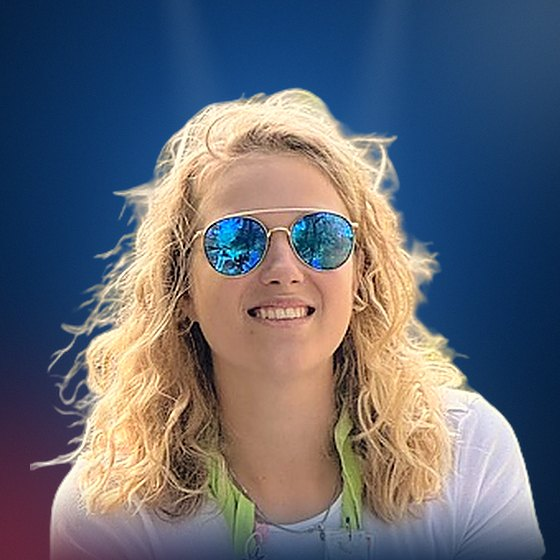
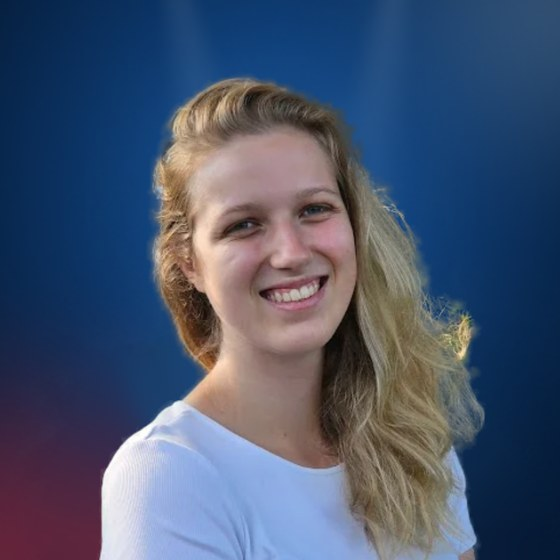
Nouveau portrait de Joanna (site et dossier de présentation)
- img/rond-joanna.jpg : nouvelle photo fournie par Luc, détourée (cheveux affinés par matting,
  vert du feuillage retiré), posée sur le fond bleu commun des portraits et cadrée comme les autres
  (écart entre les yeux ~72 px, milieu des yeux en 280 × 217) ; texte alternatif mis à jour ; ?v=2.
- Dossier de présentation PDF, page 10 : même portrait dans l'anneau rouge du « & Co »
  (mise à jour incrémentale, rien d'autre ne change) ; lien ?v=12c.

Claude-Session: https://claude.ai/code/session_013KCXGPwpWvsBYHsWhdagX8

diff --git a/index.html b/index.html
@@ -1484,7 +1484,7 @@ a.pro__logo:hover{opacity:.82}
           </div>
           <ul class="membres">
             <li class="membre membre--co">
-              <div class="membre__rond"><img src="img/rond-joanna.jpg" alt="Joanna Verwilghen, souriante, lunettes de soleil" width="560" height="560" loading="lazy"></div>
+              <div class="membre__rond"><img src="img/rond-joanna.jpg?v=2" alt="Joanna Verwilghen, souriante" width="560" height="560" loading="lazy"></div>
               <h4>Joanna Verwilghen</h4>
               <p class="membre__role">Chant</p>
               <p class="membre__bio">Benjamine de la scène et coprésidente du MEJ. Appelée en renfort pour Lourdes, elle est restée : les refrains se chantent désormais à voix mêlées.</p>
@@ -1632,7 +1632,7 @@ a.pro__logo:hover{opacity:.82}
       <div class="presse__espace">
         <p><strong>Journalistes</strong> : notre dossier de présentation rassemble l’histoire, l’équipe et les chiffres, et notre logo existe dans tous les formats ; photos sur demande auprès de Luc Mathues.</p>
         <div class="presse__boutons">
-          <a class="btn btn--contour-marine btn--petit" href="dossier-presentation-jesustrip-and-co.pdf?v=12b" target="_blank" rel="noopener"><svg class="ico" viewBox="0 0 24 24" aria-hidden="true" focusable="false"><path d="M15 2H6a2 2 0 0 0-2 2v16a2 2 0 0 0 2 2h12a2 2 0 0 0 2-2V7Z"/><path d="M14 2v4a2 2 0 0 0 2 2h4M10 9H8M16 13H8M16 17H8"/></svg> Dossier de présentation (PDF)</a>
+          <a class="btn btn--contour-marine btn--petit" href="dossier-presentation-jesustrip-and-co.pdf?v=12c" target="_blank" rel="noopener"><svg class="ico" viewBox="0 0 24 24" aria-hidden="true" focusable="false"><path d="M15 2H6a2 2 0 0 0-2 2v16a2 2 0 0 0 2 2h12a2 2 0 0 0 2-2V7Z"/><path d="M14 2v4a2 2 0 0 0 2 2h4M10 9H8M16 13H8M16 17H8"/></svg> Dossier de présentation (PDF)</a>
           <a class="btn btn--marine btn--petit" href="telechargements/Logo_JesusTrip-and-Co_kit.zip" download type="application/zip"><svg class="ico" viewBox="0 0 24 24" aria-hidden="true" focusable="false"><path d="M21 15v4a2 2 0 0 1-2 2H5a2 2 0 0 1-2-2v-4M7 10l5 5 5-5M12 15V3"/></svg> Notre logo (SVG, PDF, PNG)</a>
         </div>
       </div>
@@ -1681,7 +1681,7 @@ a.pro__logo:hover{opacity:.82}
             <p class="coord"><svg class="ico" viewBox="0 0 24 24" aria-hidden="true" focusable="false"><path d="M22 16.92v3a2 2 0 0 1-2.18 2 19.79 19.79 0 0 1-8.63-3.07 19.5 19.5 0 0 1-6-6 19.79 19.79 0 0 1-3.07-8.67A2 2 0 0 1 4.11 2h3a2 2 0 0 1 2 1.72 12.84 12.84 0 0 0 .7 2.81 2 2 0 0 1-.45 2.11L8.09 9.91a16 16 0 0 0 6 6l1.27-1.27a2 2 0 0 1 2.11-.45 12.84 12.84 0 0 0 2.81.7A2 2 0 0 1 22 16.92z"/></svg><span id="coord-tel">+32 479 11 05 54</span><button class="copier" type="button" data-copier="+32 479 11 05 54" data-cible="coord-tel"><svg class="ico" viewBox="0 0 24 24" aria-hidden="true" focusable="false"><rect width="14" height="14" x="8" y="8" rx="2"/><path d="M4 16c-1.1 0-2-.9-2-2V4c0-1.1.9-2 2-2h10c1.1 0 2 .9 2 2"/></svg><span class="copier__etat">Copier</span><span class="sr"> le numéro</span></button></p>
             <p class="coord"><svg class="ico" viewBox="0 0 24 24" aria-hidden="true" focusable="false"><rect width="20" height="16" x="2" y="4" rx="2"/><path d="m22 7-8.97 5.7a1.94 1.94 0 0 1-2.06 0L2 7"/></svg><span id="coord-mail">manonf2407@<wbr>gmail.com</span><button class="copier" type="button" data-copier="manonf2407@gmail.com" data-cible="coord-mail"><svg class="ico" viewBox="0 0 24 24" aria-hidden="true" focusable="false"><rect width="14" height="14" x="8" y="8" rx="2"/><path d="M4 16c-1.1 0-2-.9-2-2V4c0-1.1.9-2 2-2h10c1.1 0 2 .9 2 2"/></svg><span class="copier__etat">Copier</span><span class="sr"> l’adresse e-mail</span></button></p>
             <a class="btn btn--rouge" href="mailto:manonf2407@gmail.com?subject=Invitation%20Jesus%27Trip%20%26%20Co&amp;body=Bonjour%20Manon%2C%0A%0ANous%20aimerions%20accueillir%20Jesus%27Trip%20%26%20Co.%0A%0AOrganisateur%20%3A%0ALieu%20%3A%0ADate%28s%29%20envisag%C3%A9e%28s%29%20%3A%0APublic%20attendu%20%3A%0ANotre%20projet%20%28ann%C3%A9e%20pastorale%2C%20confirmands%2C%20rassemblement...%29%20%3A%0A%0AMerci%20et%20%C3%A0%20bient%C3%B4t%20%21">Écrire une invitation</a>
-            <a class="btn btn--contour-marine" href="dossier-presentation-jesustrip-and-co.pdf?v=12b" target="_blank" rel="noopener"><svg class="ico" viewBox="0 0 24 24" aria-hidden="true" focusable="false"><path d="M15 2H6a2 2 0 0 0-2 2v16a2 2 0 0 0 2 2h12a2 2 0 0 0 2-2V7Z"/><path d="M14 2v4a2 2 0 0 0 2 2h4M10 9H8M16 13H8M16 17H8"/></svg> Dossier de présentation (PDF)</a>
+            <a class="btn btn--contour-marine" href="dossier-presentation-jesustrip-and-co.pdf?v=12c" target="_blank" rel="noopener"><svg class="ico" viewBox="0 0 24 24" aria-hidden="true" focusable="false"><path d="M15 2H6a2 2 0 0 0-2 2v16a2 2 0 0 0 2 2h12a2 2 0 0 0 2-2V7Z"/><path d="M14 2v4a2 2 0 0 0 2 2h4M10 9H8M16 13H8M16 17H8"/></svg> Dossier de présentation (PDF)</a>
             <a class="contact-carte__logo" href="telechargements/Logo_JesusTrip-and-Co_kit.zip" download type="application/zip"><svg class="ico" viewBox="0 0 24 24" aria-hidden="true" focusable="false"><path d="M21 15v4a2 2 0 0 1-2 2H5a2 2 0 0 1-2-2v-4M7 10l5 5 5-5M12 15V3"/></svg><span>Notre logo pour votre affiche <small>SVG, PDF, PNG</small></span></a>
             <p class="contact-carte__fb">Vous pouvez aussi nous écrire sur <a href="https://www.facebook.com/jesustrip.be" target="_blank" rel="noopener">Facebook</a> ou sur <a href="https://www.instagram.com/jesustripandco/" target="_blank" rel="noopener">Instagram</a>.</p>
           </div>
